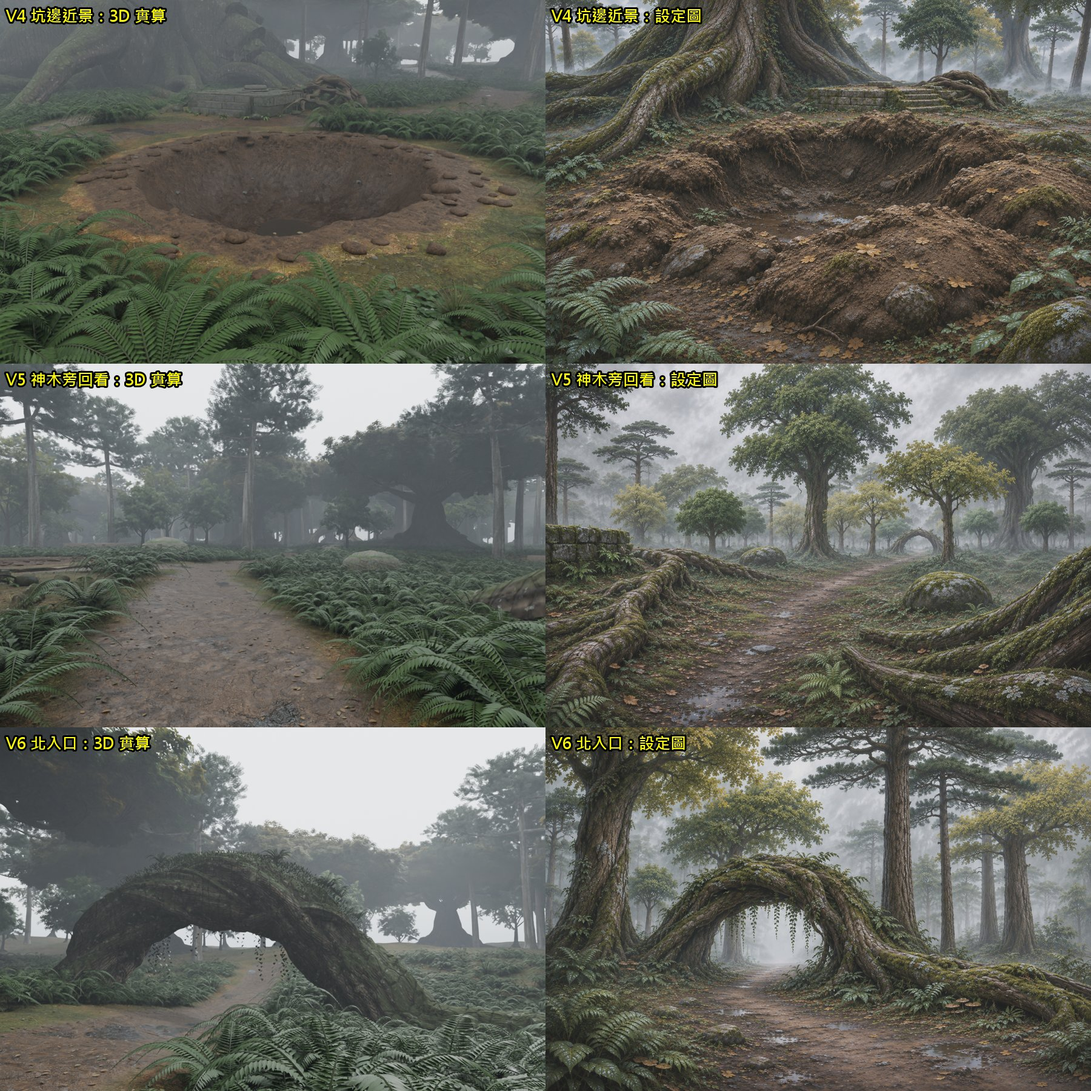
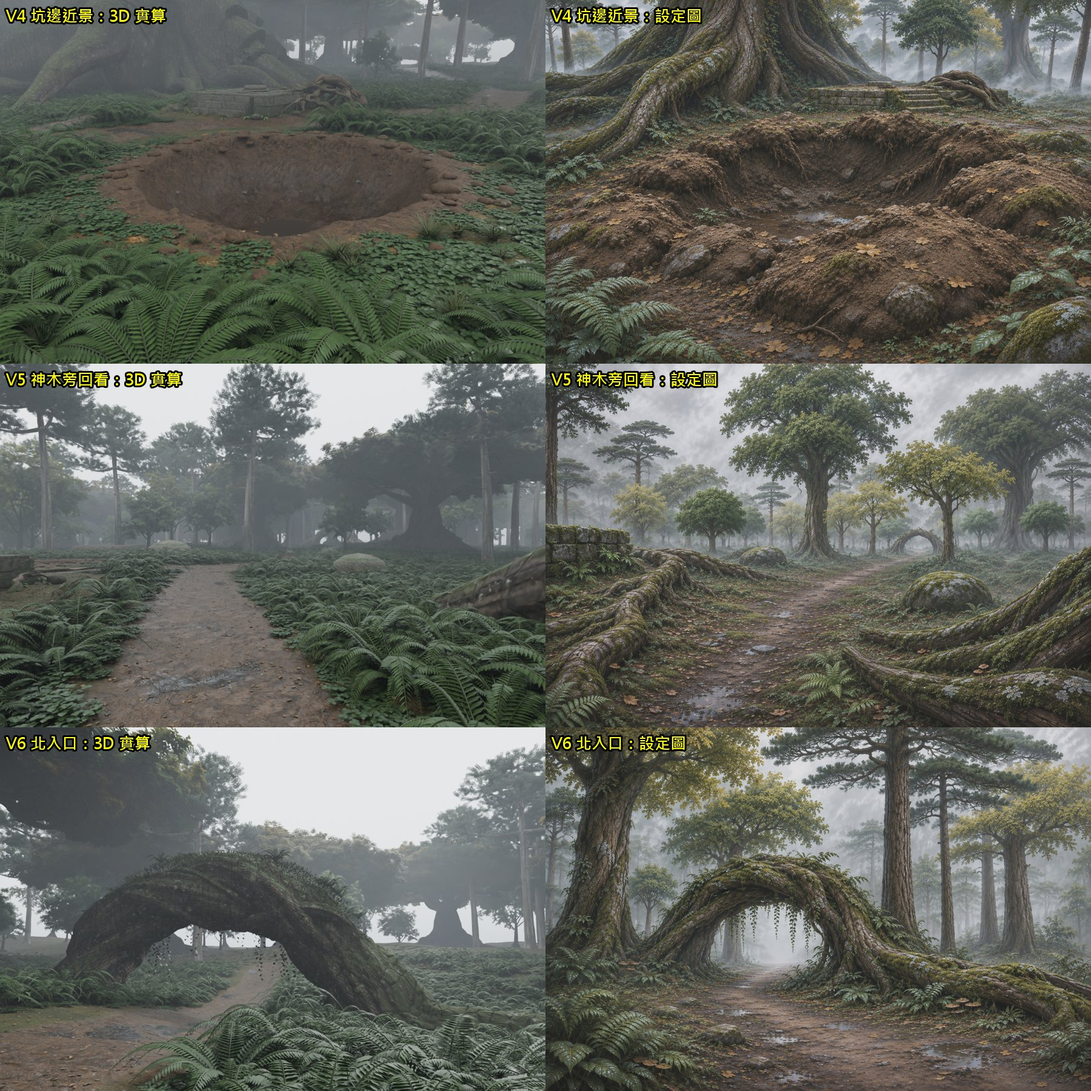
D2 floor: darker wet soil, dense low ground cover between ferns, more leaf litter

diff --git a/art/source/core-d2-v1/d2_plan.py b/art/source/core-d2-v1/d2_plan.py
@@ -213,11 +213,11 @@ if 'real' in argv:   # 泥路用平滑遮罩混材質（不要方塊鋸齒邊）
     mz.inputs['Detail'].default_value = 4
     nt.links.new(tc.outputs['Object'], mz.inputs['Vector'])
     mrz = nt.nodes.new('ShaderNodeMapRange')
-    mrz.inputs['From Min'].default_value, mrz.inputs['From Max'].default_value = .36, .58
+    mrz.inputs['From Min'].default_value, mrz.inputs['From Max'].default_value = .30, .50
     nt.links.new(mz.outputs['Fac'], mrz.inputs['Value'])
     tintA = nt.nodes.new('ShaderNodeMixRGB')
-    tintA.inputs[1].default_value = (.40, .40, .30, 1)    # 濕腐葉（深、偏褐，森林地面，不是枯草原）
-    tintA.inputs[2].default_value = (.20, .34, .10, 1)    # 苔綠
+    tintA.inputs[1].default_value = (.30, .27, .21, 1)    # 濕腐葉（深、偏褐，森林地面，不是枯草原）
+    tintA.inputs[2].default_value = (.16, .26, .08, 1)    # 苔綠
     nt.links.new(mrz.outputs[0], tintA.inputs[0])
     lf = nt.nodes.new('ShaderNodeMixRGB')
     lf.blend_type = 'MULTIPLY'
@@ -825,18 +825,38 @@ if 'real' in argv:
         if nug >= 40000:
             break
     print('UNDERGROWTH', nug)
+    GC = UG['clover'] + UG['rosette'] + UG['heart'][:1] + UG['grass'][:2]
+    GW = [5] * len(UG['clover']) + [2] * len(UG['rosette']) + [2] + [1, 1]
+    GR = random.Random(57)
+    ngc = 0
+    for cx, cy in _CAMS + [ARCH_S, ARCH_N, PIT, ALT, TREE]:
+        for i in range(5200):
+            a_, r_ = GR.uniform(0, 6.283), 32 * GR.random() ** .6
+            x, y = cx + math.cos(a_) * r_, cy + math.sin(a_) * r_
+            if path_d(x, y) < 1.9 or math.hypot(x - PIT[0], y - PIT[1]) < 4.0 or math.hypot(x - ALT[0], y - ALT[1]) < 6.0:
+                continue
+            e = bpy.data.objects.new('GC', None)
+            e.instance_type = 'COLLECTION'
+            e.instance_collection = GR.choices(GC, GW)[0]
+            s_ = GR.uniform(.35, .8)
+            e.scale = (s_, s_, s_ * GR.uniform(.6, 1.0))
+            e.rotation_euler.z = GR.uniform(0, 6.283)
+            e.location = (x, y, gh(x, y) - .02)
+            sc.collection.objects.link(e)
+            ngc += 1
+    print('GROUNDCOVER', ngc)
     # 路上的積水小窪、落葉（設定圖每一張路面都有）
     litter_mat = _leaf_material('Litter', (.55, .5, .45, 1), (.85, .8, .72, 1), (.9, .85, .7, 1), gloss=.6)
     LR = random.Random(41)
 
     def _lit_place():
         cx, cy = LR.choice(_CAMS + [ARCH_S, ARCH_N, PIT, ALT])
-        a_, r_ = LR.uniform(0, 6.283), 14 * LR.random() ** .7
+        a_, r_ = LR.uniform(0, 6.283), 24 * LR.random() ** .7
         x, y = cx + math.cos(a_) * r_, cy + math.sin(a_) * r_
         if math.hypot(x - PIT[0], y - PIT[1]) < 3.6:
             return None
         return (x, y), gh(x, y)
-    litter('PathLitter', LR, 30000, _lit_place, litter_mat)
+    litter('PathLitter', LR, 70000, _lit_place, litter_mat)
     pw = bpy.data.materials.new('Puddle')
     pw.use_nodes = True
     _pb = next(x_ for x_ in pw.node_tree.nodes if x_.type == 'BSDF_PRINCIPLED')
